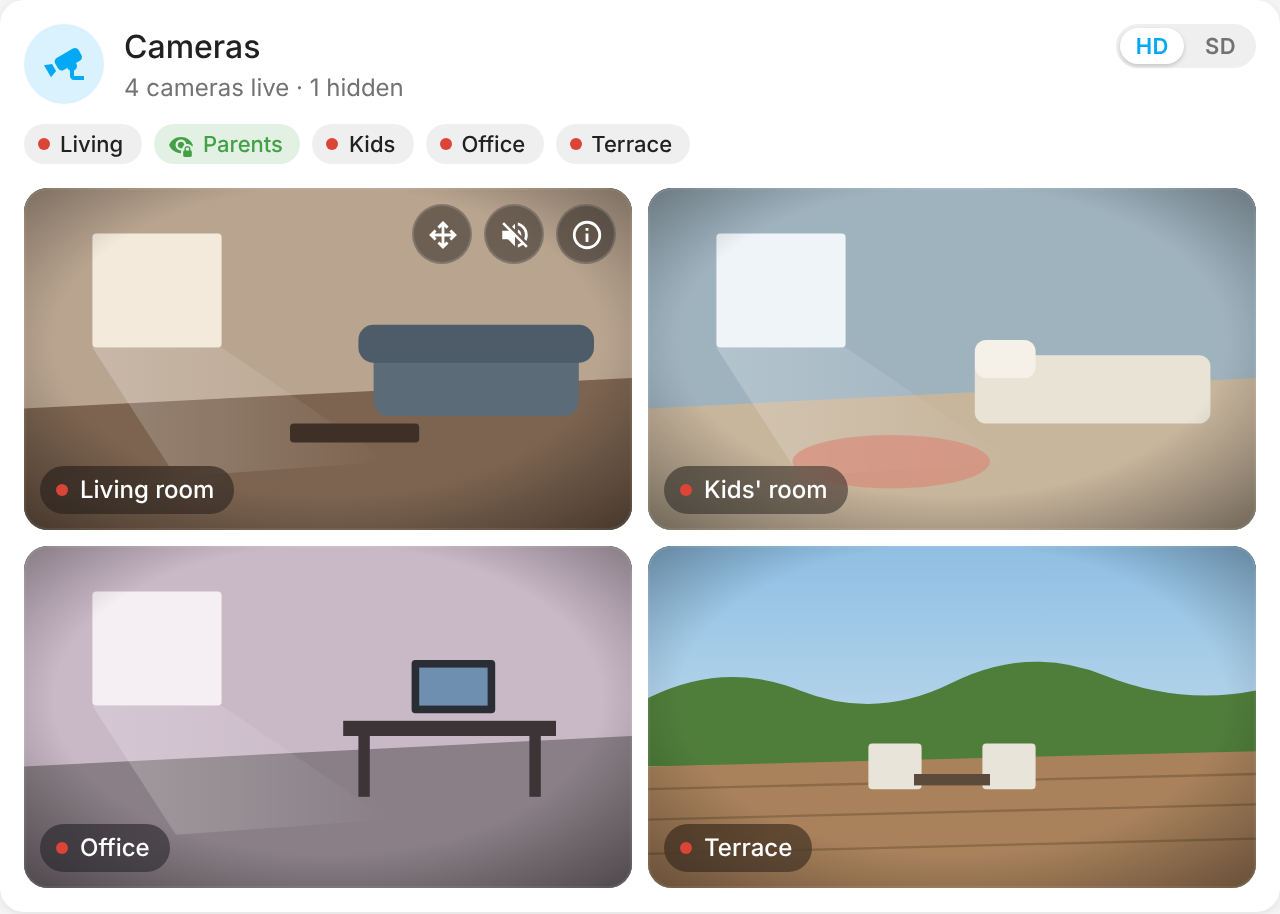
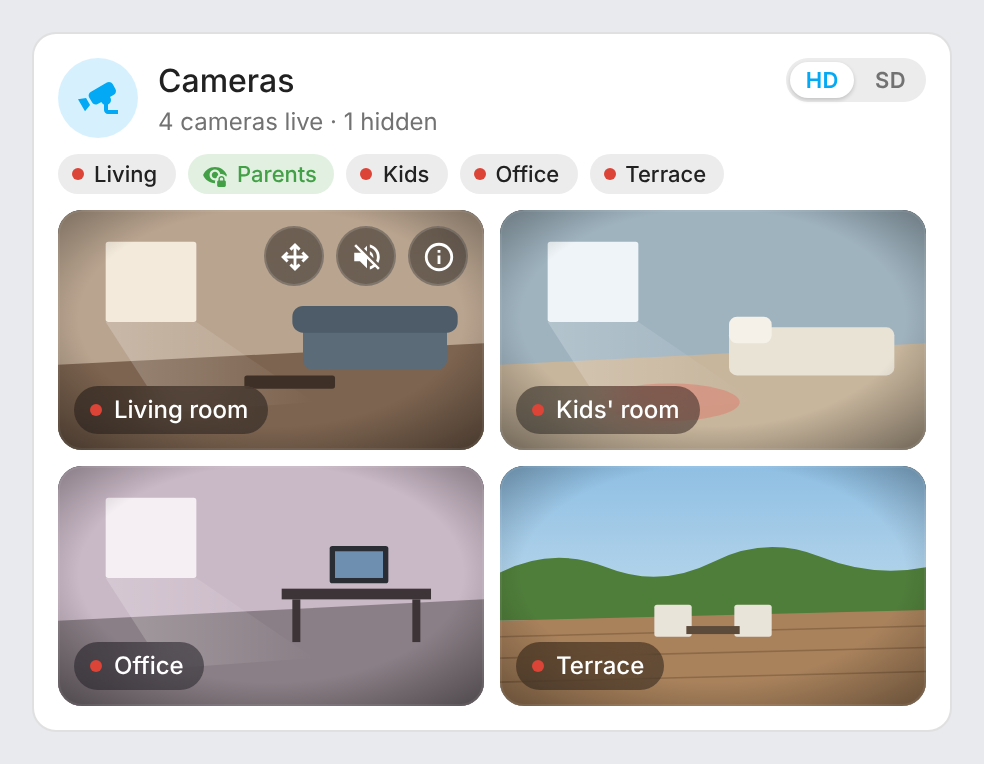
Harmonize header, card body and README screenshots (#14)
Supersedes #10 (closed): the same harmonization pass, redone on top of
3.2.1.

Header: the CCTV icon stays a 40 px round badge, now with the shared 16
% tint and the icon centred at 24 px. Header geometry like the other
cards: icon 12 px from the card's left and top edges, HD / SD switch and
single-camera toggle 12 px from the right edge, camera badges and view 8
px under the header (were 10 and 12 px). With a single camera, the icon
and toggle are no longer pushed down by the HD / SD switch under the
title. Green badges and the single-camera toggle use the 16 % tint with
24 % on hover. The 3.2.x look is kept: neutral badges with the red live
dot, HD / SD segmented switch, smoked-glass tile buttons.

Screenshots: 16 px frame on the theme background, shared light/dark
theme tokens, 1 px divider border on the ha-card stand-in, 460 px card
(was 640 / 420 px), English everywhere, page errors logged. The
fullscreen view stays a 1280 × 720 screen, now framed too.

Checks: Biome, jscpd, unit tests, 18 browser tests, build.

---
_Generated by [Claude
Code](https://claude.ai/code/session_01NW8HrjdUvTF3zwsaKKxQNw)_

---------

diff --git a/src/home-camera-card.js b/src/home-camera-card.js
@@ -787,19 +787,21 @@ class HomeCameraCard extends HTMLElement {
       // --hc-glass: the smoked glass of everything laid over the images (labels, buttons, arrows).
       ':host { display: block; --hc-on: var(--success-color, #43a047); --hc-off: var(--error-color, #db4437);' +
       ' --hc-live: var(--error-color, #db4437); --hc-glass: rgba(14, 16, 20, 0.46); --hc-glass-line: rgba(255, 255, 255, 0.14); }' +
-      'ha-card { box-sizing: border-box; padding: 12px; display: flex; flex-direction: column; gap: 12px; overflow: hidden; }' +
-      '.header { display: flex; align-items: center; gap: 10px; }' +
-      '.hicon { width: 40px; height: 40px; border-radius: 50%; flex-shrink: 0; display: flex; align-items: center; justify-content: center;' +
-      ' --hc-c: var(--primary-color, #03a9f4); background: color-mix(in srgb, var(--hc-c) 15%, transparent); color: var(--hc-c); }' +
+      'ha-card { box-sizing: border-box; padding: 12px; display: flex; flex-direction: column; gap: 8px; overflow: hidden; }' +
+      // Icon and single-camera toggle at the top of the header row (12 px from the card's edge), the titles
+      // centred beside them, even when the HD / SD switch under a single camera's name makes them taller.
+      '.header { display: flex; align-items: flex-start; gap: 10px; }' +
+      '.hicon { width: 40px; height: 40px; border-radius: 50%; flex: none; display: grid; place-items: center;' +
+      ' --hc-c: var(--primary-color, #03a9f4); background: color-mix(in srgb, var(--hc-c) 16%, transparent); color: var(--hc-c); }' +
       '.hicon.off { --hc-c: var(--secondary-text-color); }' +
       '.hicon ha-icon { --mdc-icon-size: 24px; }' +
-      '.titles { flex: 1; min-width: 0; }' +
+      '.titles { flex: 1; min-width: 0; align-self: center; }' +
       '.name-row { display: flex; align-items: center; gap: 8px; }' +
       '.name { flex: 1; min-width: 0; font-size: 16px; font-weight: 500; line-height: 1.25; color: var(--primary-text-color); white-space: nowrap; overflow: hidden; text-overflow: ellipsis; }' +
       '.summary { font-size: 12px; line-height: 1.35; margin-top: 2px; color: var(--secondary-text-color); }' +
       '.chips { display: flex; flex-wrap: wrap; justify-content: flex-end; gap: 6px; }' +
       '.chips.badges, .chips.sub { justify-content: flex-start; }' +
-      '.chips.badges { margin-top: 10px; }' +
+      '.chips.badges { margin-top: 8px; }' +
       '.chips.sub { margin-top: 4px; }' +
       // HD / SD switch: a track with the current option raised on it.
       '.seg { display: inline-flex; padding: 2px; gap: 2px; border-radius: 12px; background: var(--secondary-background-color, rgba(128,128,128,0.12)); }' +
@@ -811,7 +813,7 @@ class HomeCameraCard extends HTMLElement {
       // green-tinted with the lock).
       '.toggle { width: 40px; height: 40px; border-radius: 50%; flex-shrink: 0; display: flex; align-items: center; justify-content: center; cursor: pointer;' +
       ' background: var(--secondary-background-color, rgba(128,128,128,0.12)); color: var(--primary-text-color); }' +
-      '.toggle.private { background: color-mix(in srgb, var(--hc-on) 15%, transparent); color: var(--hc-on); }' +
+      '.toggle.private { background: color-mix(in srgb, var(--hc-on) 16%, transparent); color: var(--hc-on); }' +
       '.toggle.pending { color: var(--secondary-text-color); cursor: progress; }' +
       '.toggle ha-icon { --mdc-icon-size: 22px; }' +
       '.toggle .dot { width: 12px; height: 12px; }' +
@@ -819,7 +821,8 @@ class HomeCameraCard extends HTMLElement {
       '.chip { display: inline-flex; align-items: center; gap: 5px; font-size: 11px; font-weight: 500; line-height: 18px; padding: 1px 9px 1px 7px; border-radius: 12px;' +
       ' cursor: pointer; white-space: nowrap; user-select: none; background: var(--secondary-background-color, rgba(128,128,128,0.12)); color: var(--primary-text-color); }' +
       '.chip ha-icon { --mdc-icon-size: 13px; }' +
-      '.chip.private { background: color-mix(in srgb, var(--hc-on) 15%, transparent); color: var(--hc-on); }' +
+      '.chip.private { background: color-mix(in srgb, var(--hc-on) 16%, transparent); color: var(--hc-on); }' +
+      ':is(.chip, .toggle).private:hover { background: color-mix(in srgb, var(--hc-on) 24%, transparent); }' +
       '.chip.pending { cursor: progress; color: var(--secondary-text-color); }' +
       '.chip:focus-visible, .toggle:focus-visible { outline: 2px solid var(--primary-color, #03a9f4); outline-offset: 1px; }' +
       '.dot { width: 6px; height: 6px; border-radius: 50%; flex-shrink: 0; background: var(--hc-live); }' +
@@ -870,7 +873,10 @@ class HomeCameraCard extends HTMLElement {
       '.btn:active { transform: scale(0.94); }' +
       '.btn:focus-visible { outline: 2px solid var(--primary-color, #03a9f4); outline-offset: 1px; }' +
       '.btn ha-icon { --mdc-icon-size: 17px; }' +
-      '.tile.ptz-open .btn.ptz, .btn.sound.on, .move:active { background: var(--primary-color, #03a9f4); border-color: transparent; }' +
+      // On: the same glass, the icon in the accent colour (no fill, like the other ha-* cards), and a faint
+      // accent ring that keeps the state readable where light scenes turn the glass grey.
+      '.tile.ptz-open .btn.ptz, .btn.sound.on, .move:active { color: var(--primary-color, #03a9f4);' +
+      ' box-shadow: inset 0 0 0 1px color-mix(in srgb, var(--primary-color, #03a9f4) 40%, transparent); }' +
       // Narrow tiles: the up arrow would run into the other buttons.
       '.tile.ptz-open .tools .btn:not(.ptz) { display: none; }' +
       // Pan & tilt: a round pad, its four arrows around a centre dot, in the bottom right corner (under the
@@ -885,7 +891,7 @@ class HomeCameraCard extends HTMLElement {
       '.move { --s: calc(var(--pad) * 0.32); position: absolute; width: var(--s); height: var(--s); touch-action: none;' +
       ' background: transparent; border-color: transparent; -webkit-backdrop-filter: none; backdrop-filter: none; }' +
       '.move:hover { background: rgba(255,255,255,0.12); }' +
-      '.move:active { background: var(--primary-color, #03a9f4); }' +
+      '.move:active { background: var(--hc-glass); }' +
       '.move ha-icon { --mdc-icon-size: calc(var(--s) * 0.62); filter: drop-shadow(0 1px 2px rgba(0,0,0,0.7)); }' +
       '.move.left { left: 2px; top: calc(50% - var(--s) / 2); }' +
       '.move.right { right: 2px; top: calc(50% - var(--s) / 2); }' +

diff --git a/CHANGELOG.md b/CHANGELOG.md
@@ -1,5 +1,16 @@
 # Changelog
 
+## Unreleased
+
+### Changes
+- Header icon: a round badge drawn like the other ha-* cards (16 % tint of its colour, icon centred at 24 px).
+- Header spacing like the other cards: the camera badges and the camera view start 8 px under the header (were 10 px and 12 px). With a single camera, the header icon and the toggle sit 12 px from the top of the card instead of being pushed down by the HD / SD switch under the title.
+- Green badges and the single camera's green toggle use the shared 16 % tint, 24 % on hover.
+- Buttons and arrows on the images: when on (pan & tilt open, sound on) or pressed, they keep the smoked glass and show their icon in the accent colour with a faint accent ring, instead of a solid accent fill.
+
+### Maintenance
+- Screenshots: 16 px frame on the theme background, shared theme tokens and card border, 460 px card (the fullscreen view stays a 1280 × 720 screen, now framed too), page errors logged. Nothing changes for users.
+
 ## 3.2.1
 
 ### Fixes
